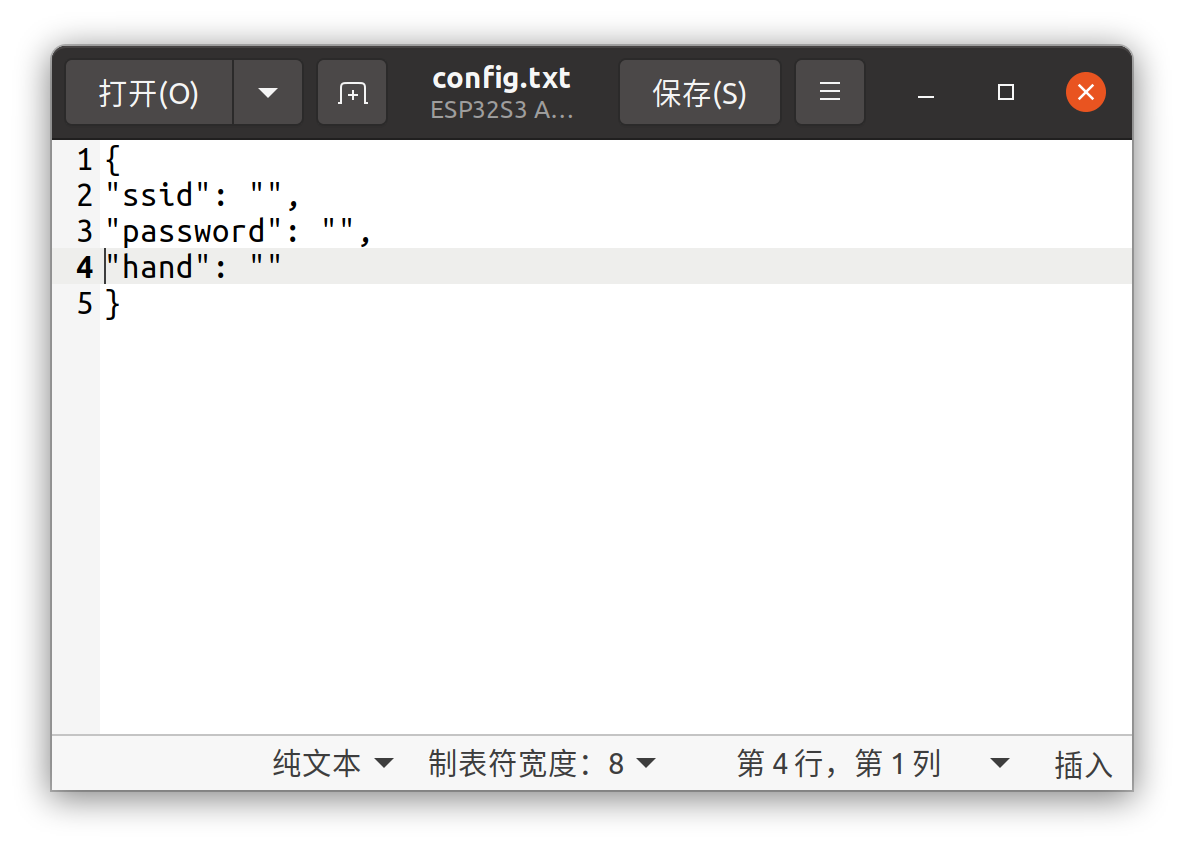
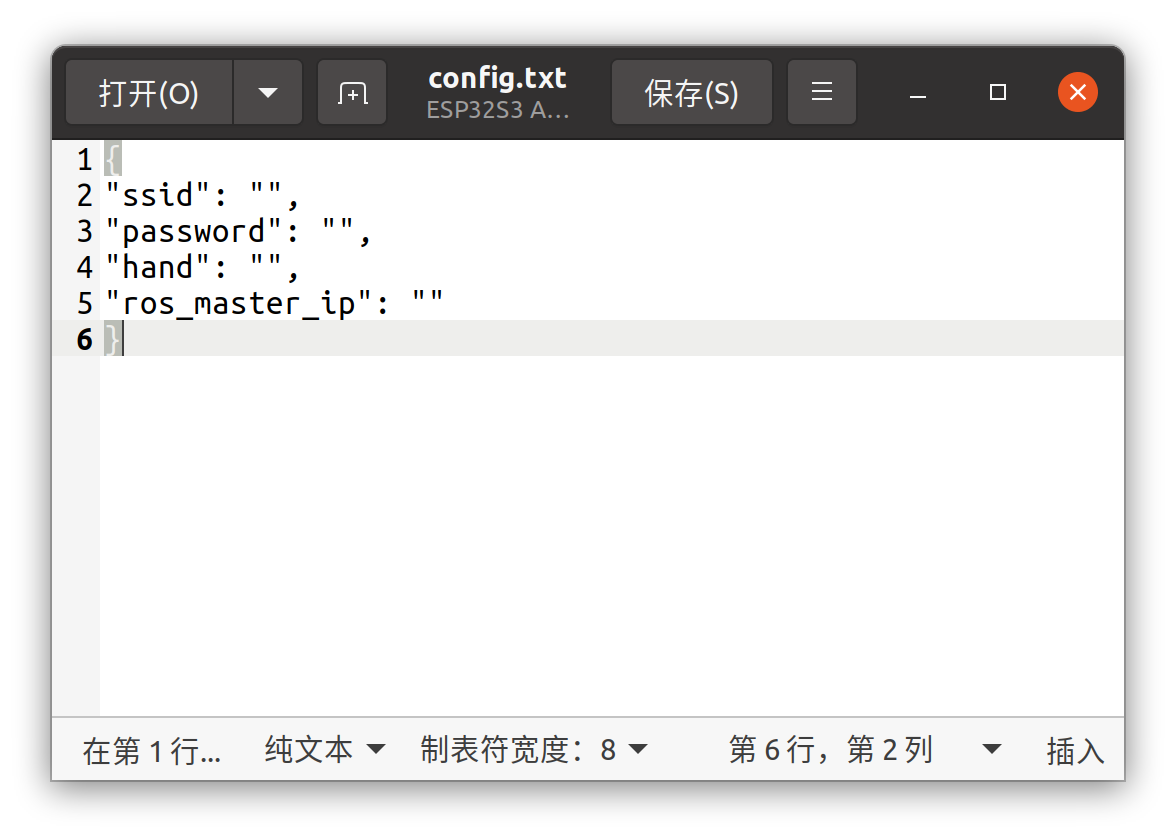
readme和esp32代码更新

diff --git a/ESP32/esp32_s3/display.h b/ESP32/esp32_s3/display.h
@@ -1,3 +1,15 @@
+/*
+ * display.h
+ *
+ * Created on: 2024
+ * Description:
+ * lcd屏幕显示相关的文件，显示屏是128X32的。
+ * 主要功能：
+ * 1. 初始化i2c总线，加载虚拟进度条，主要为了美观
+ * 2. 显示电压数值，电池信息，wifi连接状态等关键信息
+ * Copyright (c) 2024 AgileX Robotics
+ */
+
 //iic
 #include <Wire.h>
 //屏幕驱动
@@ -13,9 +25,18 @@
 #define OLED_RESET -1  // 复位引脚（没有使用）
 #define SCREEN_ADDRESS 0x3C  // I2C 地址（大多数 OLED 显示屏地址为 0x3C）
 
+// 定义电池图标的大小和位置
+#define BATTERY_WIDTH 20
+#define BATTERY_HEIGHT 10
+#define BATTERY_X (SCREEN_WIDTH - BATTERY_WIDTH - 2)  // 距离右下角 2 像素
+#define BATTERY_Y (SCREEN_HEIGHT - BATTERY_HEIGHT - 2)
+// 电池电量百分比
+float batteryPercentage = 75.0;  // 假设电池百分比，实际可以根据电压值计算
+
 // 声明一个 OLED 显示屏对象
 Adafruit_SSD1306 display(SCREEN_WIDTH, SCREEN_HEIGHT, &Wire, -1);
-int progress = 0;
+// 显示的电池电压信息
+char* battery_info = (char*)malloc(32 * sizeof(char));
 
 void init_display()
 {
@@ -28,6 +49,8 @@ void init_display()
     }
     // 清除缓冲区
     display.clearDisplay();
+    // 虚拟进度条
+    static int progress = 0;
     while(progress < 121)
     {
       // 显示一些文本
@@ -50,4 +73,50 @@ void init_display()
       progress+=2;
     }
     display.clearDisplay();
+}
+
+//显示wifi的连接状态
+void display_wifi_status(char* ssid,char* hand_name)
+{
+  // 显示wifi连接状态
+  IPAddress localIP = WiFi.localIP();
+  String ipString = localIP.toString();
+  display.clearDisplay();
+  display.setTextSize(1.5);
+  display.setCursor(0, 0);
+  display.printf("WiFi: %s",ssid);
+  display.setCursor(0, 10);
+  display.printf("IP: %s", ipString.c_str());
+  display.setCursor(0,20);
+  display.printf("hand: %s", hand_name);
+}
+
+//显示电压的数值
+void display_battery()
+{
+  // 设置文本大小
+  display.setTextSize(1);
+  // 将光标移到右下角
+  display.setCursor(SCREEN_WIDTH - 10 * 2, SCREEN_HEIGHT - 8); // 10 * 2是大概的数字宽度，8是行高
+  // 显示数字
+  display.print(battery_info);
+  // 刷新显示屏
+  display.display();
+}
+
+// 显示电池电量ui
+void displayBatteryIcon(float batteryPercentage) {
+  // 绘制电池外壳
+  display.drawRect(BATTERY_X, BATTERY_Y, BATTERY_WIDTH, BATTERY_HEIGHT, SSD1306_WHITE);
+
+  // 绘制电池头部
+  display.drawRect(BATTERY_X + BATTERY_WIDTH, BATTERY_Y + 3, 3, 4, SSD1306_WHITE);
+
+  // 计算电量格数
+  int numBars = (batteryPercentage / 100.0) * 4;  // 四格电量
+
+  // 填充电量格
+  for (int i = 0; i < numBars; i++) {
+    display.fillRect(BATTERY_X + 2 + i * 4, BATTERY_Y + 2, 3, BATTERY_HEIGHT - 4, WHITE);
+  }
 }

diff --git a/ESP32/esp32_s3/nvs_user.h b/ESP32/esp32_s3/nvs_user.h
@@ -1,3 +1,14 @@
+/*
+ * nvs_user.h
+ *
+ * Created on: 2024
+ * Description:
+ * nvs存储相关配置，当前版本的文件系统的内容做不到随用随存，所以将静态存储的参数全部放在nvs存储空间中
+ * 主要功能：
+ * 1. 初始化nvs相关
+ * 2. 读写操作函数，读取到的都是json格式的字符串，然后再进行序列化或者反序列化
+ * Copyright (c) 2024 AgileX Robotics
+ */
 #include "nvs_flash.h"
 #include "nvs.h"
 
@@ -111,6 +122,7 @@ void read_nvs_data(char* ssid,char* password,char* ros_ip)
   }
 }
 
+//从nvs中读取"hand"标签的数据，该标签有“left”和“right”,分别代表左手和右手
 void read_nvs_hand(char* hand_name)
 {
   // 打开 NVS 命名空间
@@ -145,6 +157,7 @@ void read_nvs_hand(char* hand_name)
   }
 }
 
+//判定nvs是否初始化成功
 void init_nvs()
 {
     // 如果NVS分区中没有空闲页面或者找不到NVS版本，可能需要擦除并重新初始化NVS

diff --git a/ESP32/esp32_s3/ros_esp32.h b/ESP32/esp32_s3/ros_esp32.h
@@ -1,3 +1,11 @@
+/*
+ * ros_esp32.h
+ *
+ * Created on: 2024
+ * Description:
+ * ros相关代码，其中发布者的名字和ros master的ip地址需要从nvs中读取
+ * Copyright (c) 2024 AgileX Robotics
+ */
 #include <ros.h>
 #include <std_msgs/String.h>
 #include <cstring>  // 需要包含此头文件

diff --git a/ESP32/esp32_s3/usbmsc.h b/ESP32/esp32_s3/usbmsc.h
@@ -1,3 +1,11 @@
+/*
+ * usbmsc.h
+ *
+ * Created on: 2024
+ * Description:
+ * 该代码使用fat文件系统初始化文件分区和config文件，再初始化usbmsc设备将该文件系统暴露，并挂载给其他设备
+ * Copyright (c) 2024 AgileX Robotics
+ */
 #include "USB.h"
 #include "USBMSC.h"
 

diff --git a/ESP32/esp32_s3/rgb.h b/ESP32/esp32_s3/rgb.h
@@ -1,5 +1,11 @@
-// rgb相关外设
-
+/*
+ * rgb.h
+ *
+ * Created on: 2024
+ * Description:
+ * rgb相关代码
+ * Copyright (c) 2024 AgileX Robotics
+ */
 #include "Freenove_WS2812_Lib_for_ESP32.h"
 
 #define LEDS_COUNT  8
